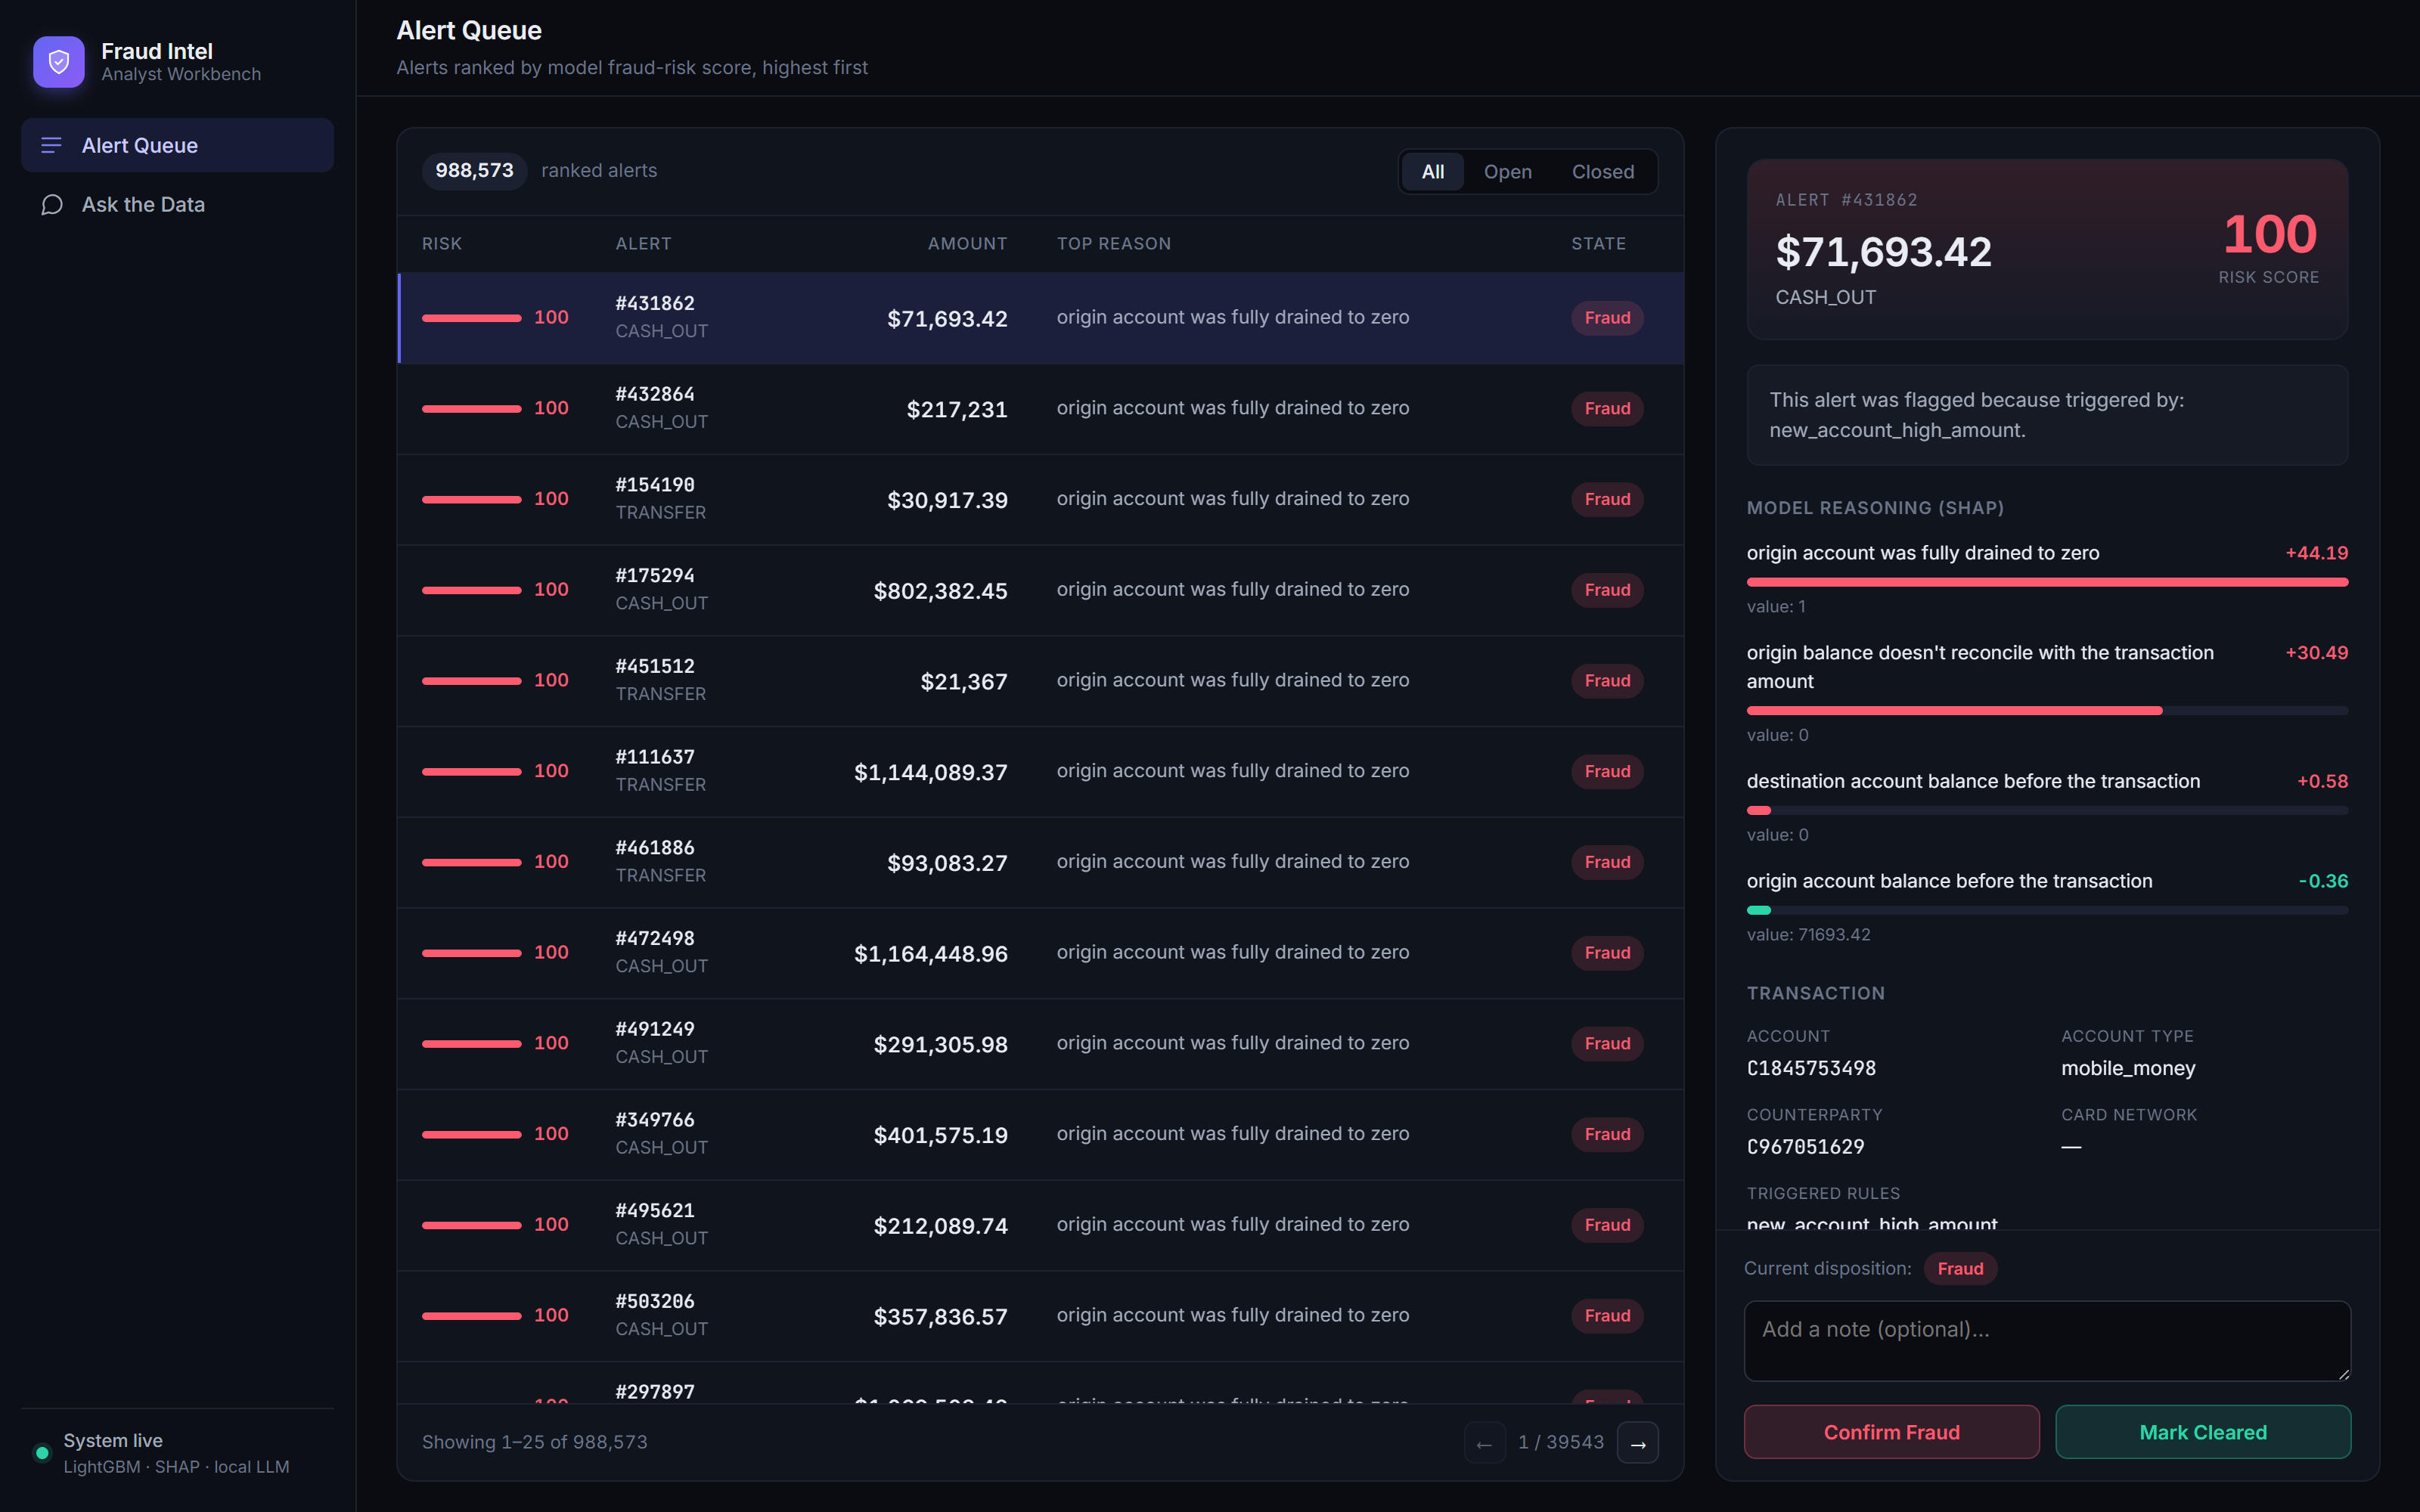
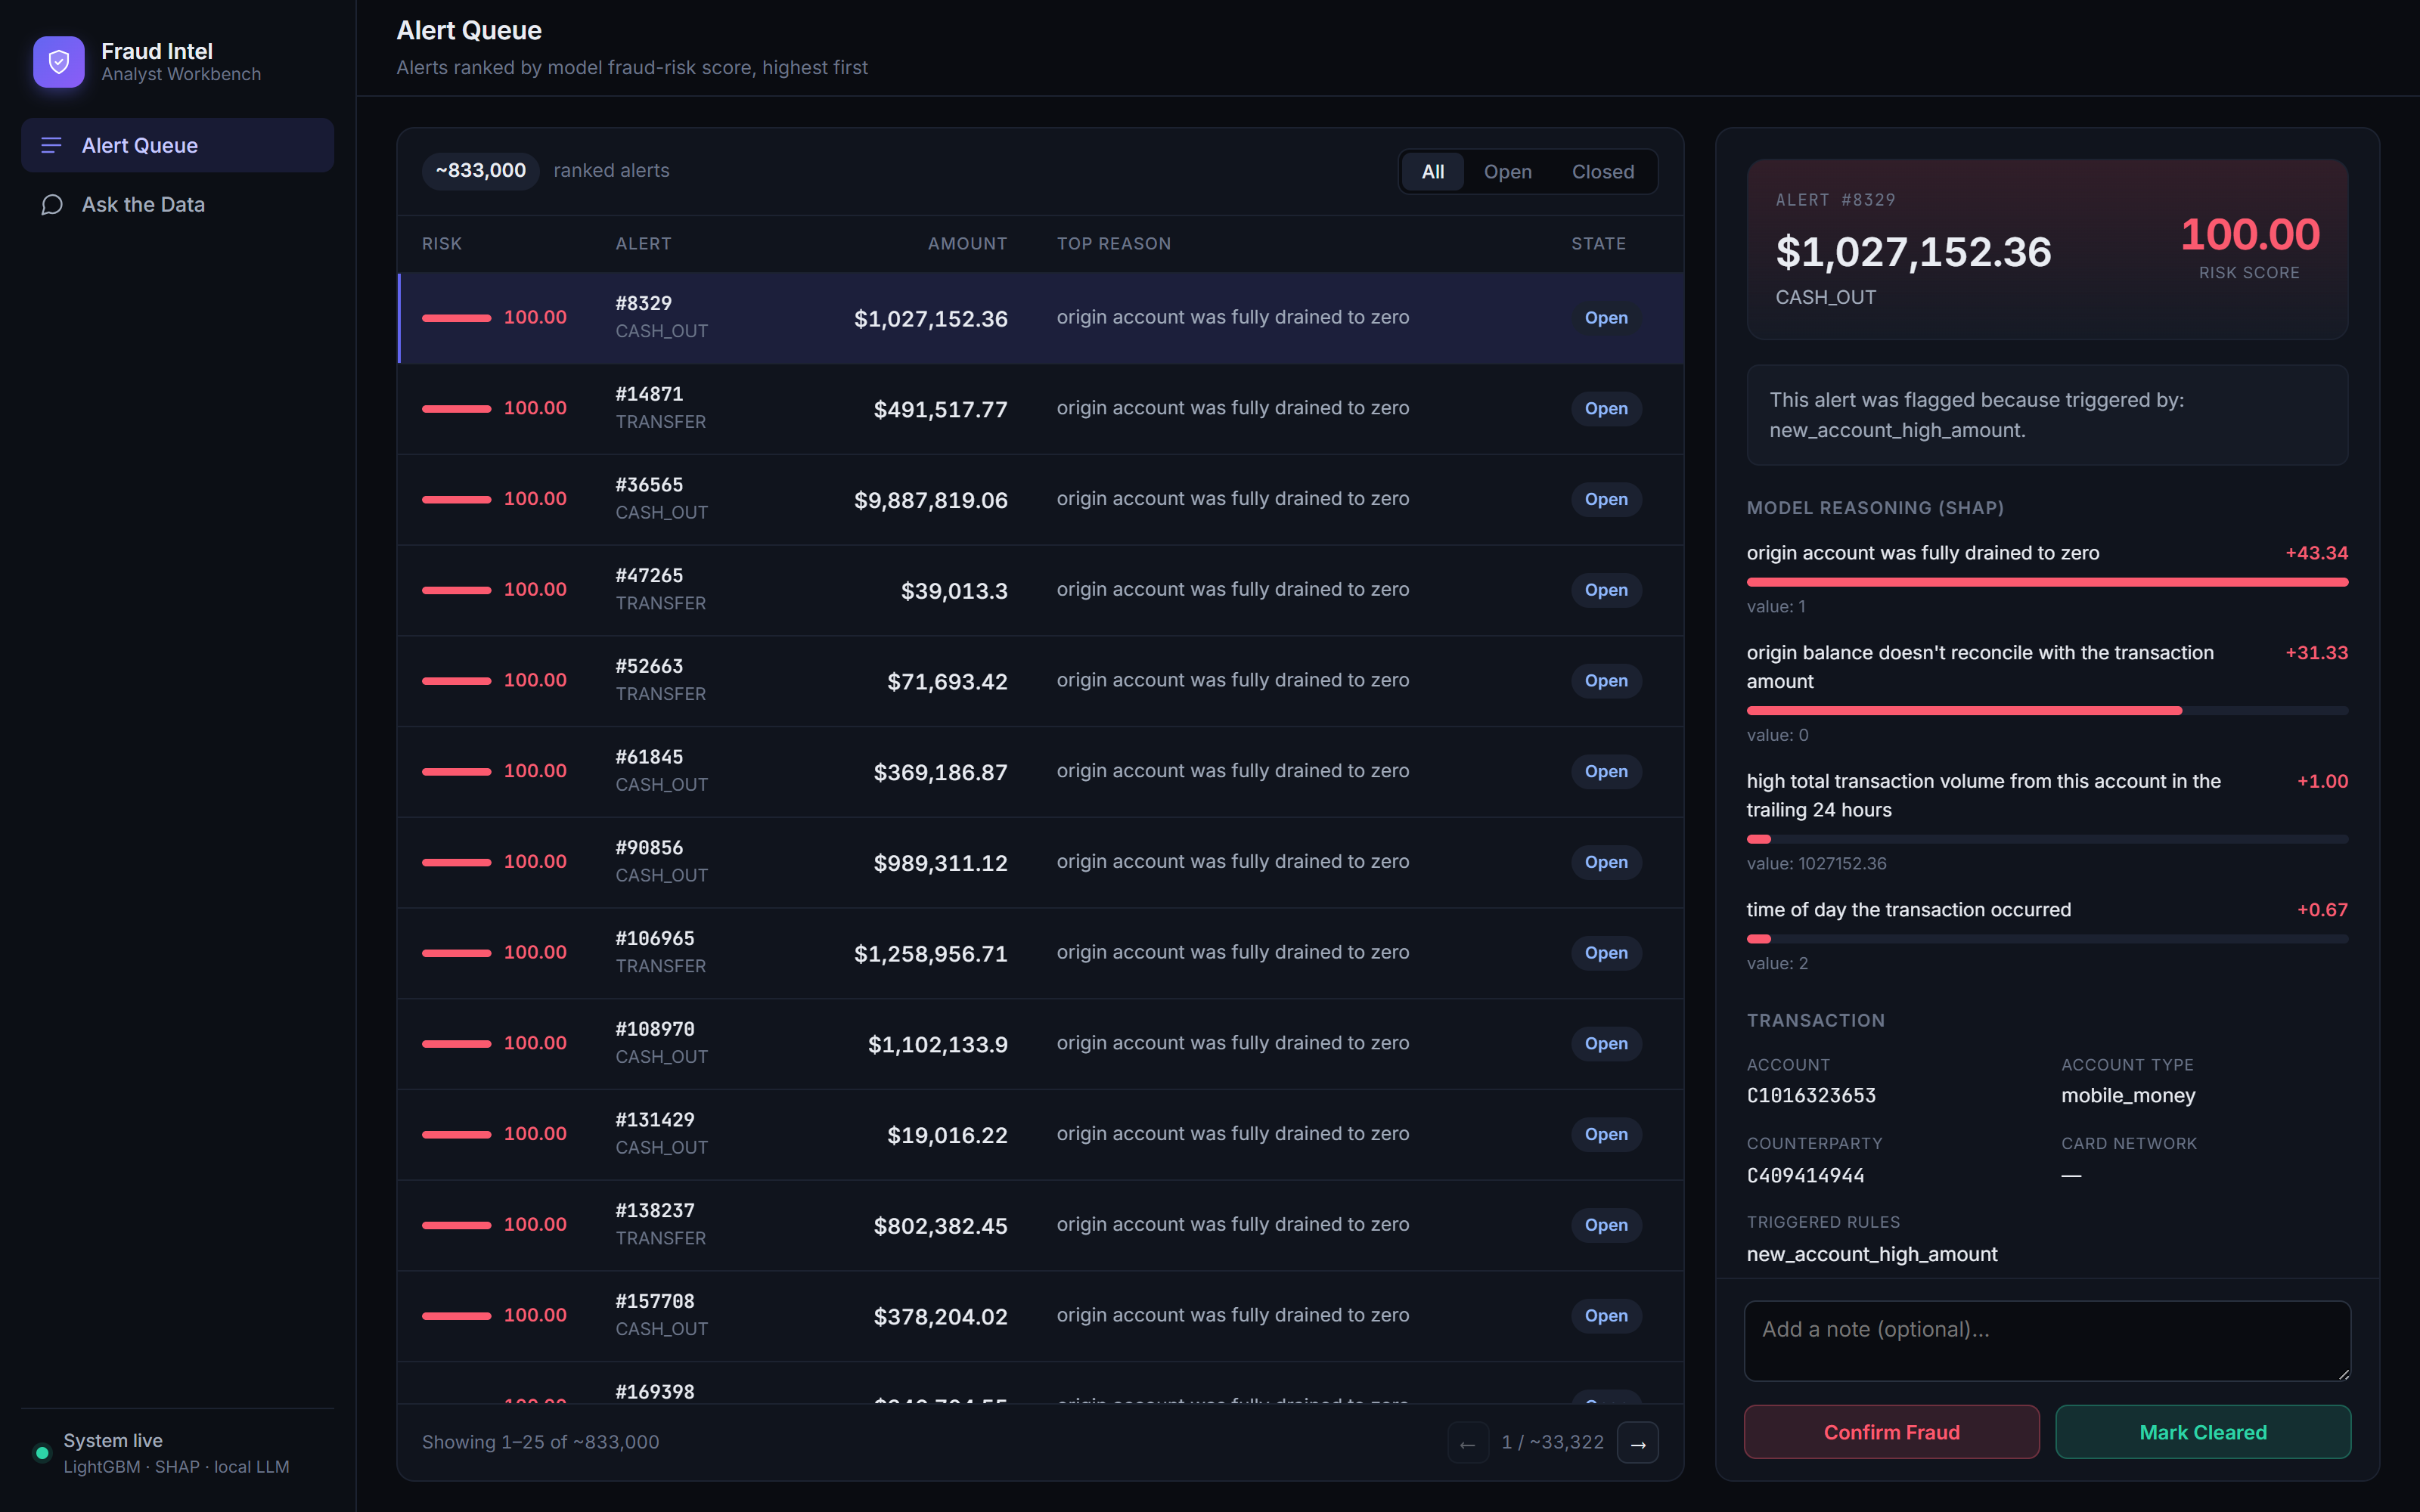
Refresh workbench screenshot; stop over-stating the estimated count
Recaptured docs/screenshots/workbench.png against the live stack (Playwright,
1600x1000 @user to match the existing assets). The old image predated the
seeded-label fix and showed a Fraud/Cleared badge on every untouched alert.

Capturing it exposed two defects in the estimated count added earlier:

- The planner's estimate varies with ANALYZE sampling far more than the first
  measurement suggested — 986,673 on one run (0.19% low) and 833,041 on the
  next (15.7% low) against a true 988,573. Rendering that to the unit claims a
  precision it does not have, so estimates now display rounded to three
  significant figures: "~833,000", not "~833,041". Exact counts are unaffected.
- maxPage was derived from the estimate, so an undershoot disabled the "next"
  button thousands of pages before the real end of the queue. A full page of
  results is direct evidence more rows exist, so it now overrides the estimate.
  The pager count is marked "~" for the same reason as the total.

The screenshot still shows a column of 100.00 scores. That is real: explain.py
stores 4dp, ~495 alerts tie at exactly 1.0, and every one of them is confirmed
fraud — there is no ordering to recover inside that block.

diff --git a/frontend/src/components/AlertQueue.tsx b/frontend/src/components/AlertQueue.tsx
@@ -38,9 +38,12 @@ export default function AlertQueue({ selectedId, onSelect, refreshKey }: Props) 
   }, [page, statusFilter, refreshKey]);
 
   const maxPage = Math.max(0, Math.ceil(total / PAGE_SIZE) - 1);
-  // "~" whenever the backend returned a planner estimate instead of an exact
-  // COUNT(*), so an approximate figure is never presented as an exact one.
-  const totalLabel = `${totalIsEstimate ? '~' : ''}${total.toLocaleString()}`;
+  const totalLabel = formatTotal(total, totalIsEstimate);
+  // The planner's estimate can undershoot the real row count by double-digit
+  // percentages, and maxPage is derived from it — which would disable "next"
+  // thousands of pages before the true end of the queue. A full page of results
+  // is direct evidence more rows exist, so trust it over the estimate.
+  const canGoNext = page < maxPage || items.length === PAGE_SIZE;
 
   return (
     <div className="panel queue-panel">
@@ -132,15 +135,29 @@ export default function AlertQueue({ selectedId, onSelect, refreshKey }: Props) 
             ←
           </button>
           <span className="pager-label">
-            {page + 1} / {maxPage + 1}
+            {page + 1} / {totalIsEstimate ? '~' : ''}
+            {(maxPage + 1).toLocaleString()}
           </span>
-          <button disabled={page >= maxPage} onClick={() => setPage((p) => p + 1)}>
+          <button disabled={!canGoNext} onClick={() => setPage((p) => p + 1)}>
             →
           </button>
         </div>
       </div>
     </div>
   );
+}
+
+/**
+ * Exact counts print in full; estimates are rounded to three significant
+ * figures. The planner's estimate is routinely off by several percent, so
+ * rendering it to the unit ("~833,041") claims a precision it does not have —
+ * "~833,000" says the same thing without the false decimals.
+ */
+function formatTotal(total: number, isEstimate: boolean): string {
+  if (!isEstimate) return total.toLocaleString();
+  if (total <= 0) return '~0';
+  const step = Math.pow(10, Math.max(0, Math.floor(Math.log10(total)) - 2));
+  return `~${(Math.round(total / step) * step).toLocaleString()}`;
 }
 
 function RiskMeter({ score }: { score: number | null }) {